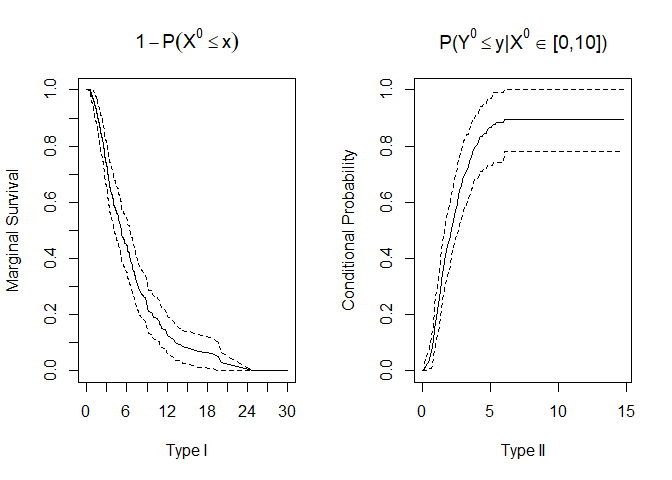
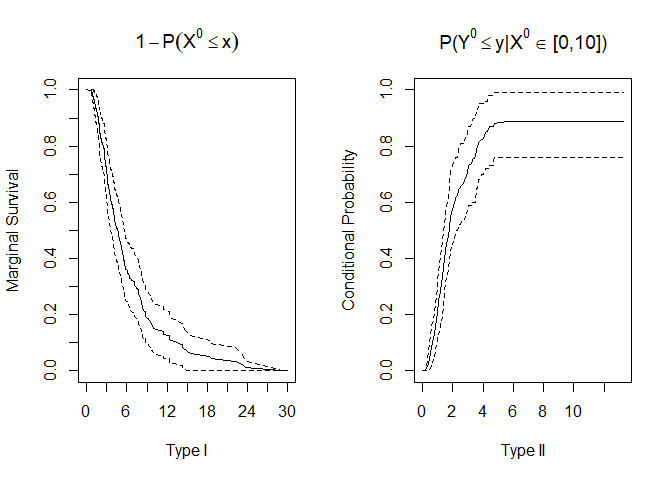
read me update

diff --git a/README.md b/README.md
@@ -48,16 +48,16 @@ library(BivRec)
 #> Registered S3 method overwritten by 'BivRec':
 #>   method       from    
 #>   plot.formula graphics
-set.seed(1234)
-sim_data <- simBivRec(nsize=150, beta1=c(0.5,0.5), beta2=c(0,-0.5), tau_c=63, set=1.1)
+set.seed(288)
+sim_data <- simBivRec(nsize=100, beta1=c(0.5,0.5), beta2=c(0,-0.5), tau_c=63, set=1.1)
 head(sim_data)
-#>   id epi      xij      yij       ci d1 d2 a1        a2
-#> 1  1   1 2.411938 1.608223 40.41911  1  1  0 0.4390421
-#> 2  1   2 1.405158 1.358592 40.41911  1  1  0 0.4390421
-#> 3  1   3 2.188781 1.633935 40.41911  1  1  0 0.4390421
-#> 4  1   4 2.045351 1.071826 40.41911  1  1  0 0.4390421
-#> 5  1   5 5.047795 2.175306 40.41911  1  1  0 0.4390421
-#> 6  1   6 2.503392 1.324126 40.41911  1  1  0 0.4390421
+#>   id epi      xij       yij        ci d1 d2 a1         a2
+#> 1  1   1 1.886882 1.4385977  5.218676  1  1  0 0.01429619
+#> 2  1   2 1.459066 0.4341303  5.218676  1  0  0 0.01429619
+#> 3  2   1 2.812824 0.7359517 18.667124  1  1  1 0.74366631
+#> 4  2   2 3.957610 1.0279152 18.667124  1  1  1 0.74366631
+#> 5  2   3 3.966836 0.8669458 18.667124  1  1  1 0.74366631
+#> 6  2   4 3.489983 1.4055131 18.667124  1  1  1 0.74366631
 
 # Create a bivrecSurv object
 bivrec_object <- with(sim_data, bivrecSurv(id, epi, xij, yij, d1, d2))
@@ -83,37 +83,37 @@ head(npresult)
 #> 
 #> Joint CDF:
 #>    x y Joint Probability         SE  Lower .99 Upper .99
-#> 1 2 1        0.07765854 0.01916368 0.02829617 0.1270209
-#> 2 2 2        0.12390735 0.02288661 0.06495534 0.1828594
-#> 3 2 3        0.13381917 0.02345172 0.07341153 0.1942268
-#> 4 2 4        0.13694252 0.02348318 0.07645387 0.1974312
-#> 5 2 5        0.13928503 0.02373745 0.07814140 0.2004287
-#> 6 2 6        0.13928503 0.02373745 0.07814140 0.2004287
+#> 1 2 1         0.0908710 0.02354341 0.03022720 0.1515148
+#> 2 2 2         0.1481150 0.03075241 0.06890205 0.2273279
+#> 3 2 3         0.1579445 0.03134974 0.07719294 0.2386961
+#> 4 2 4         0.1579445 0.03134974 0.07719294 0.2386961
+#> 5 2 5         0.1607501 0.03132463 0.08006321 0.2414370
+#> 6 2 6         0.1607501 0.03132463 0.08006321 0.2414370
 #> 
 #> Marginal Survival:
 #>         Time Marginal Survival           SE Lower .99 Upper .99
-#> 1 0.2697386         0.9998851 9.383939e-06 0.9998609 0.9999092
-#> 2 0.2759313         0.9997701 1.149293e-04 0.9994741 1.0000000
-#> 3 0.2912704         0.9996552 2.292833e-04 0.9990646 1.0000000
-#> 4 0.3055601         0.9995402 3.437648e-04 0.9986548 1.0000000
-#> 5 0.3203637         0.9994253 4.582784e-04 0.9982448 1.0000000
-#> 6 0.3229318         0.9993103 5.728047e-04 0.9978349 1.0000000
+#> 1 0.5177089         0.9993266 6.763374e-05 0.9991524 0.9995008
+#> 2 0.5743254         0.9986532 6.729472e-04 0.9969198 1.0000000
+#> 3 0.5776458         0.9979798 1.340786e-03 0.9945262 1.0000000
+#> 4 0.6523116         0.9974988 2.009200e-03 0.9923234 1.0000000
+#> 5 0.7016157         0.9941318 2.087441e-03 0.9887549 0.9995087
+#> 6 0.7059578         0.9936508 3.901686e-03 0.9836007 1.0000000
 #> 
 #> Conditional CDF:
 #>      Time Conditional Probability  Bootstrap SE Bootstrap Lower .99
 #> 1 0.0000                  0.0000        0.0000                   0
-#> 2 0.0744                  0.0000        0.0000                   0
-#> 3 0.1487                  0.0055        0.0044                   0
-#> 4 0.2231                  0.0133        0.0094                   0
-#> 5 0.2975                  0.0194        0.0117                   0
-#> 6 0.3718                  0.0247        0.0134                   0
+#> 2 0.0669                  0.0000        0.0000                   0
+#> 3 0.1337                  0.0000        0.0000                   0
+#> 4 0.2006                  0.0013        0.0012                   0
+#> 5 0.2675                  0.0066        0.0049                   0
+#> 6 0.3344                  0.0155        0.0085                   0
 #>   Bootstrap Upper .99
 #> 1                0.00
 #> 2                0.00
-#> 3                0.02
-#> 4                0.04
-#> 5                0.05
-#> 6                0.06
+#> 3                0.00
+#> 4                0.00
+#> 5                0.02
+#> 6                0.04
 plot(npresult)
 ```
 
@@ -141,7 +141,7 @@ Analysis
 plot(x = bivrecSurv(id, epi, xij, yij, d1, d2) ~ a1 + a2, data = sim_data,
     type = c("Type I", "Type II"))
 #> [1] "a2 not used - either continuous or had more than 6 levels."
-#> [1] "Original number of subjects: 150. Subjects for plots: 150"
+#> [1] "Original number of subjects: 100. Subjects for plots: 100"
 ```
 
 ![](man/figures/README-BivRecExample3-1.png)<!-- -->
@@ -151,8 +151,6 @@ plot(x = bivrecSurv(id, epi, xij, yij, d1, d2) ~ a1 + a2, data = sim_data,
 # Apply Lee, Huang, Xu, Luo (2018) method using multiple covariates.
 lee_fit <- bivrecReg(bivrecSurv(id, epi, xij, yij, d1, d2) ~ a1 + a2,
                     data= sim_data, "Lee.et.al")
-#> Warning in if (length(d2check) == 1 & d2check == 0) {: the condition has
-#> length > 1 and only the first element will be used
 #> [1] "Fitting model with covariates: a1, a2"
 #> [1] "Estimating standard errors"
 
@@ -163,23 +161,23 @@ summary(lee_fit)
 #>     a2, data = sim_data, method = "Lee.et.al")
 #> 
 #> Number of Subjects:
-#> 150
+#> 100
 #> 
 #> Coefficients:
-#>         Estimates     SE        z  Pr(>|z|)    
-#> xij a1   0.57444  0.13068  4.3956    1e-05 ***
-#> xij a2   0.51281  0.27075  1.8940  0.02911 *  
-#> yij a1   0.28883  0.19854  1.4548  0.07286 .  
-#> yij a2  -0.62074  0.38427 -1.6154  0.05311 .  
+#>         Estimates     SE        z  Pr(>|z|)   
+#> xij a1   0.22050  0.17485  1.2611  0.10364   
+#> xij a2   0.59174  0.30020  1.9711  0.02435 * 
+#> yij a1  -0.59171  0.22379 -2.6441  0.00410 **
+#> yij a2  -0.44510  0.51001 -0.8727  0.19141   
 #> ---
 #> Signif. codes:  0 '***' 0.001 '**' 0.01 '*' 0.05 '.' 0.1 ' ' 1
 #> 
 #> exp(coefficients):
 #>         exp(coeff) Lower .95 Upper .95
-#> xij a1    1.77614   1.37479    2.2946
-#> xij a2    1.66997   0.98230    2.8390
-#> yij a1    1.33487   0.90457    1.9698
-#> yij a2    0.53755   0.25312    1.1416
+#> xij a1    1.24670   0.88497    1.7563
+#> xij a2    1.80712   1.00336    3.2548
+#> yij a1    0.55338   0.35689    0.8580
+#> yij a2    0.64076   0.23582    1.7411
 
 # To apply Chang (2004) method use method="Chang".
 # chang_fit <- bivrecReg(bivrecSurv(id, epi, xij, yij, d1, d2) ~ a1 + a2,
